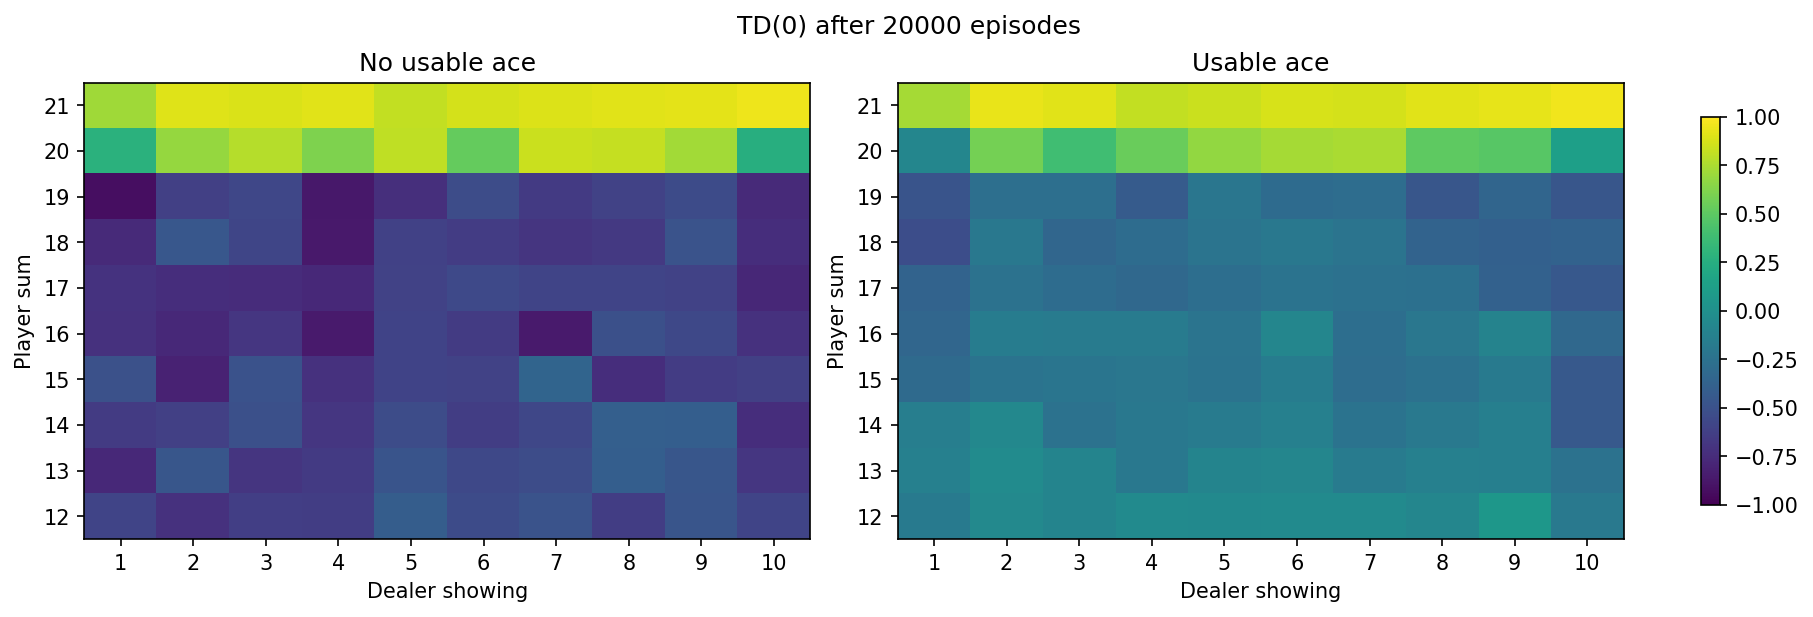
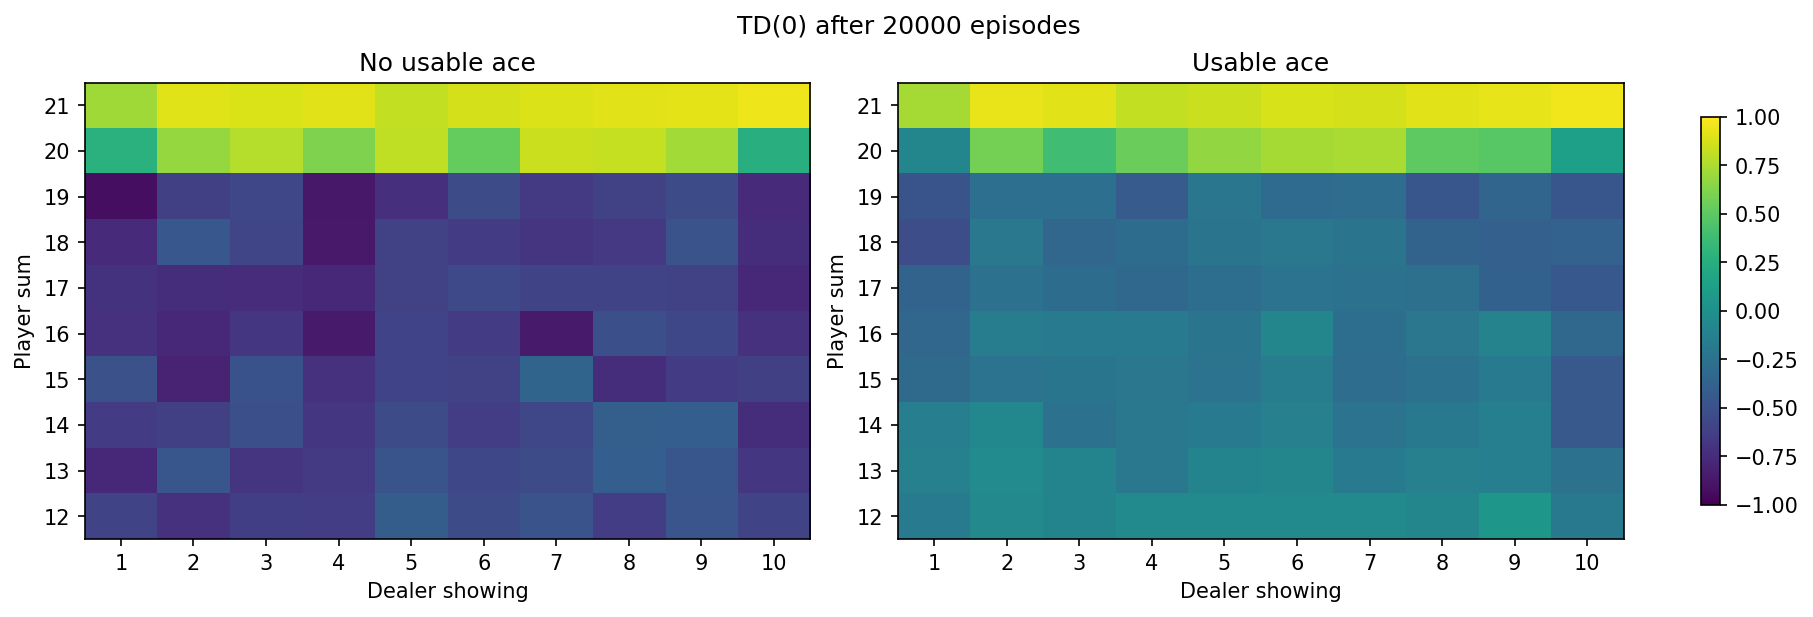
add

Changed region(s): [[0.6795, 0.9546, 0.7413, 0.9854], [0.556, 0.0308, 0.5869, 0.0616], [0.2471, 0.9546, 0.278, 0.9854]]

diff --git a/aulas/aula_2026-03-17/mia_rl/agents/control/sarsa.py b/aulas/aula_2026-03-17/mia_rl/agents/control/sarsa.py
@@ -29,23 +29,28 @@ class SarsaControl(ControlAgent[StateT, ActionT]):
     def select_action(self, state: StateT) -> ActionT:
         """Choose an epsilon-greedy action and cache it for the SARSA bootstrap.
 
-        TODO:
         1. With probability `self.epsilon`, choose a random action from `self.actions`.
         2. Otherwise choose an action with the highest current action-value.
         3. Store the chosen action in `self._selected_actions[state]` and return it.
         """
-        raise NotImplementedError("TODO: implement epsilon-greedy action selection for Sarsa.")
+        if self.rng.random() < self.epsilon:
+            action = self.rng.choice(self.actions)
+        else:
+            action = self.greedy_action(state)
+        self._selected_actions[state] = action
+        return action
 
     def update_transition(self, transition: Transition[StateT, ActionT]) -> None:
         """Apply the SARSA update using the cached next action for the next state.
 
-        TODO:
         1. Use a bootstrap value of `0.0` on terminal transitions.
         2. Otherwise read the cached next action from `self._selected_actions[transition.next_state]`.
         3. Compute the SARSA target `reward + gamma * Q(next_state, next_action)`.
         4. Apply the incremental update with `self.alpha`.
         """
-        raise NotImplementedError("TODO: implement the SARSA update.")
+        bootstrap_value = 0.0 if transition.done else self.action_value_of(transition.next_state, self._selected_actions[transition.next_state])
+        target = transition.reward + self.gamma * bootstrap_value
+        self.Q[(transition.state, transition.action)] += self.alpha * (target - self.Q[(transition.state, transition.action)])
 
     def action_value_of(self, state: StateT, action: ActionT) -> float:
         return float(self.Q[(state, action)])
